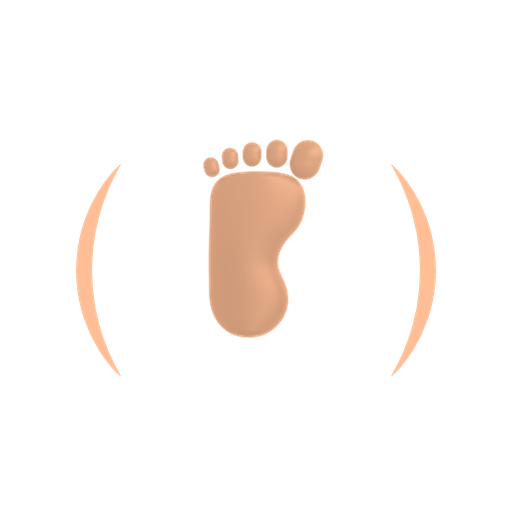
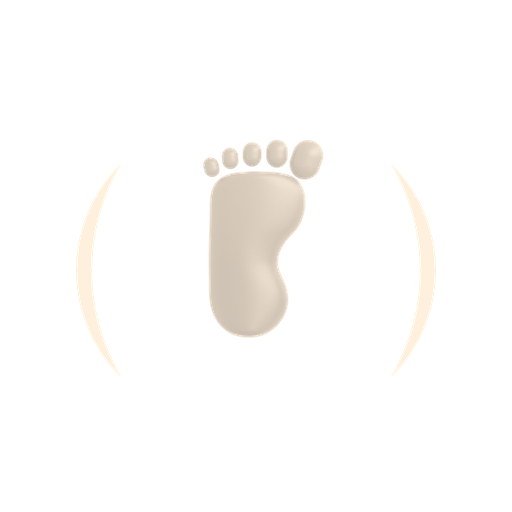
조용조용 웹 — 발바닥 크림으로 원복

diff --git a/joyong/flutter_bootstrap.js b/joyong/flutter_bootstrap.js
@@ -37,6 +37,6 @@ _flutter.buildConfig = {"engineRevision":"83675ed27633283e7fc296c8bca22e841224c0
 
 _flutter.loader.load({
   serviceWorkerSettings: {
-    serviceWorkerVersion: "132113165" /* Flutter's service worker is deprecated and will be removed in a future Flutter release. */
+    serviceWorkerVersion: "1979071895" /* Flutter's service worker is deprecated and will be removed in a future Flutter release. */
   }
 });
